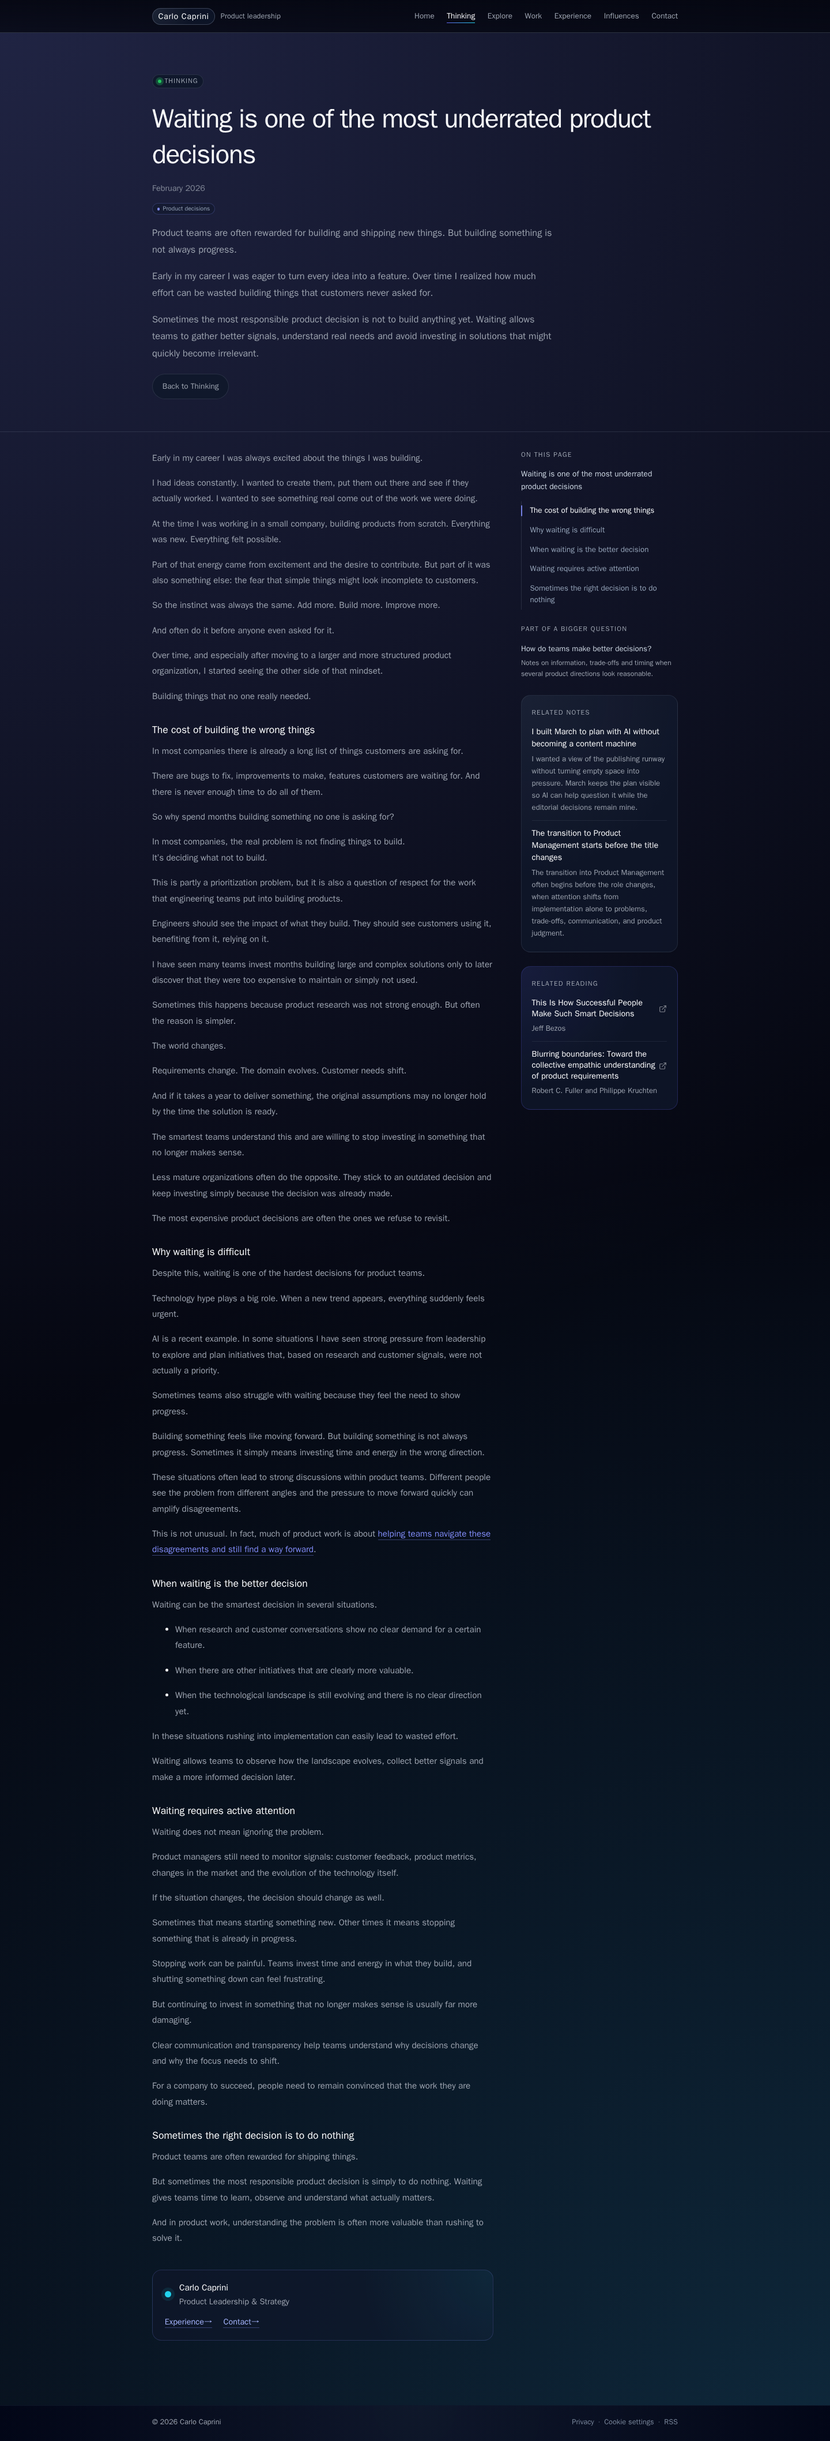
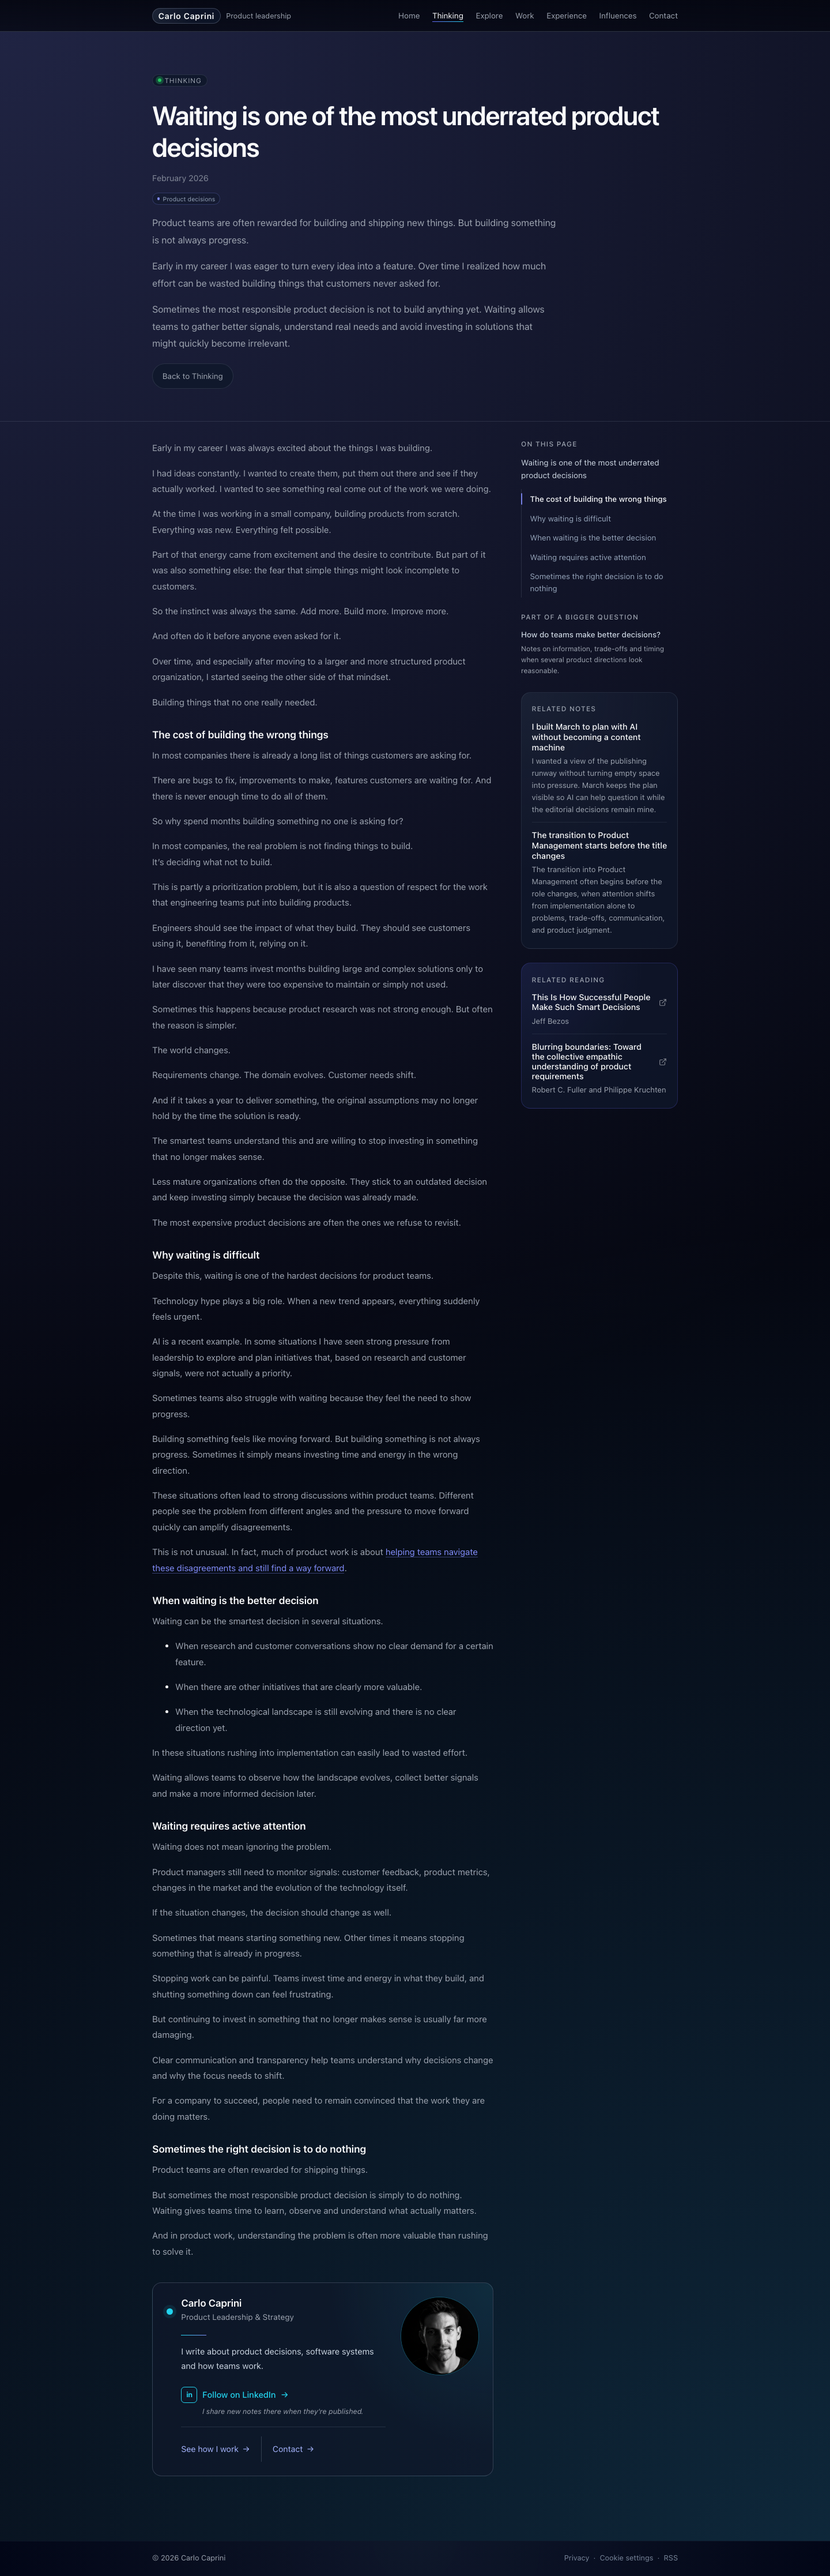
docs: define the responsive signature pattern

diff --git a/docs/design-system.md b/docs/design-system.md
@@ -517,16 +517,23 @@ At narrower widths, hide “On this page” instead of moving it below the note.
 
 ### Article Signature
 
-The signature is a compact identity surface at the end of each note. It should establish authorship and offer useful next steps without adding generic positioning copy.
+The signature is a responsive identity surface at the end of each note. It should make the author recognizable, offer a restrained relationship CTA and connect the note to the professional layer of the site without becoming a second article conclusion.
 
 Keep:
 
-- name and short role label
-- one restrained accent marker
-- standard editorial links to Experience and Contact
-- the same link treatment used elsewhere on the site
+- name, short role label and local monochrome portrait
 
-Avoid biographies, promotional claims or duplicate summaries of the article.
+- the existing cyan identity marker; the portrait complements rather than replaces it
+
+- LinkedIn as the primary relationship CTA, with a short publication-oriented explanation where space allows
+
+- Work and Contact as lower-priority actions using the standard site link treatment
+
+- one semantic component and one canonical set of person data across breakpoints
+
+On desktop and portrait tablet, retain the short description and LinkedIn microcopy. On mobile, hide those supporting lines while preserving identity, portrait and all three actions. The compact state is a responsive representation of the same component, not separate content.
+
+Avoid biographies, promotional claims, article summaries, unrelated navigation and generic icon families for the secondary actions.
 
 ### Credentials
 
